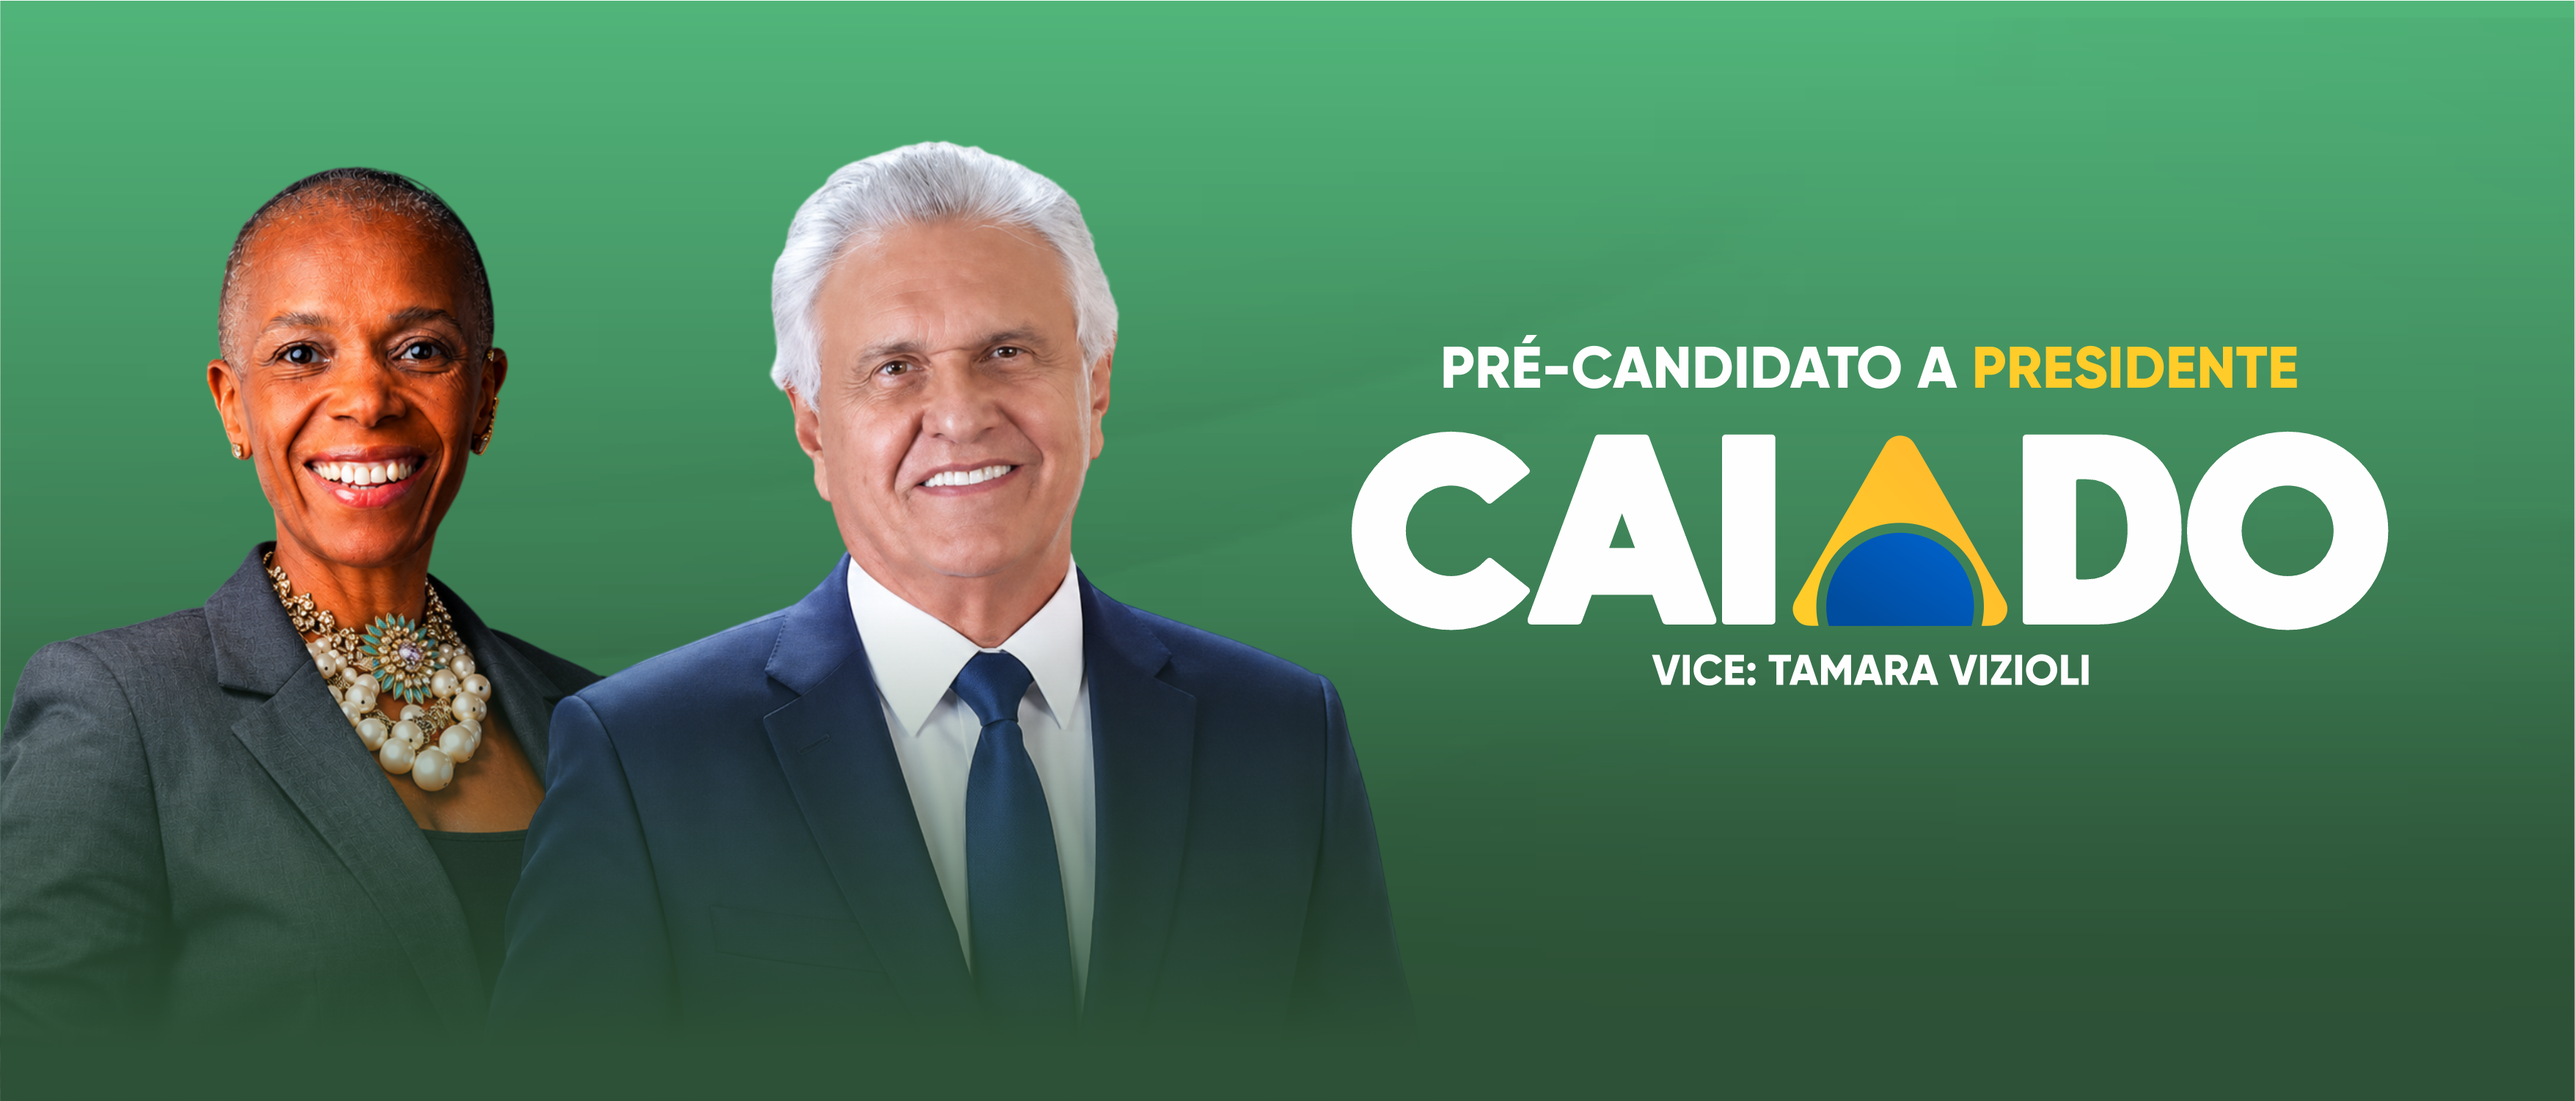
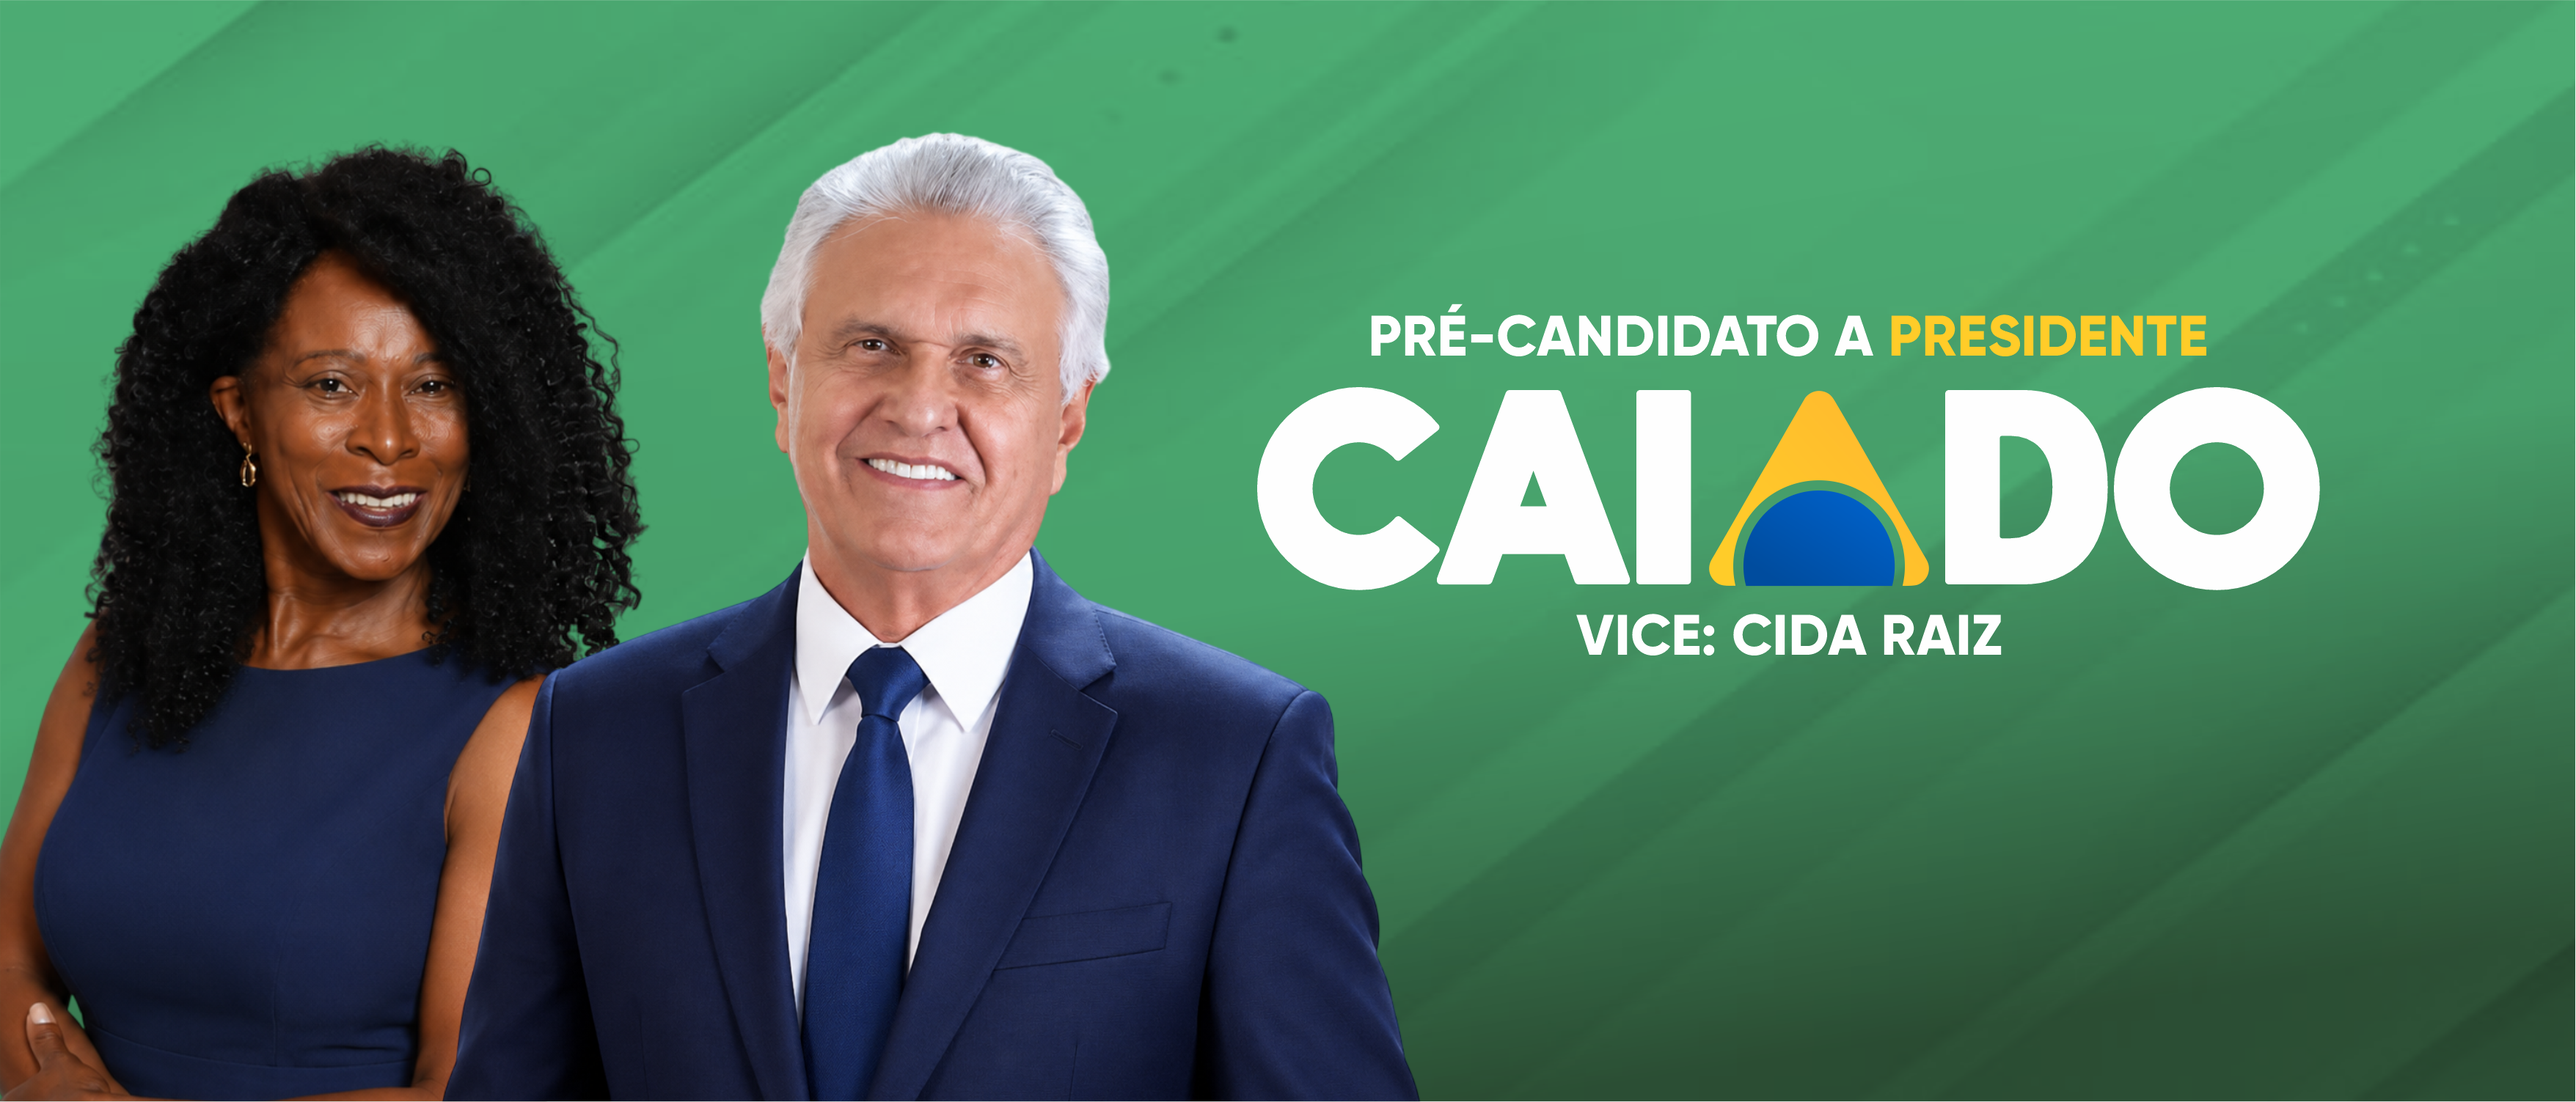
Add files via upload

diff --git a/index.html b/index.html
@@ -3,8 +3,18 @@
 <head>
   <meta charset="UTF-8">
   <meta name="viewport" content="width=device-width, initial-scale=1.0">
-  <meta name="description" content="Caiado 2026 - PSD Afro GO indica Tamara Vizioli para vice em uma chapa de gest&atilde;o, seguran&ccedil;a e transforma&ccedil;&atilde;o humana.">
-  <title>Caiado 2026 | PSD Afro GO indica Tamara Vizioli</title>
+  <meta name="description" content="Caiado 2026 - PSD Afro GO indica Cida Raiz para vice em uma chapa de gest&atilde;o, paz social e transforma&ccedil;&atilde;o humana.">
+  <title>Caiado 2026 | PSD Afro GO indica Cida Raiz</title>
+  <meta property="og:type" content="website">
+  <meta property="og:title" content="Caiado 2026 | PSD Afro GO indica Cida Raiz">
+  <meta property="og:description" content="PSD Afro GO indica Cida Raiz para vice de Ronaldo Caiado.">
+  <meta property="og:image" content="https://caiado2026.vercel.app/og-image.png">
+  <meta property="og:image:width" content="1200">
+  <meta property="og:image:height" content="630">
+  <meta name="twitter:card" content="summary_large_image">
+  <meta name="twitter:title" content="Caiado 2026 | PSD Afro GO indica Cida Raiz">
+  <meta name="twitter:description" content="PSD Afro GO indica Cida Raiz para vice de Ronaldo Caiado.">
+  <meta name="twitter:image" content="https://caiado2026.vercel.app/og-image.png">
   <link rel="preconnect" href="https://fonts.googleapis.com">
   <link rel="preconnect" href="https://fonts.gstatic.com" crossorigin>
   <link href="https://fonts.googleapis.com/css2?family=Inter:wght@400;500;600;700;800;900&family=Playfair+Display:wght@700;800&display=swap" rel="stylesheet">
@@ -23,7 +33,7 @@
     </button>
     <div class="nav-links">
       <a href="#movimento">Movimento</a>
-      <a href="#tamara">Tamara</a>
+      <a href="#cida">Cida Raiz</a>
       <a href="#agenda">Agenda</a>
       <a href="#planos">Planos</a>
       <a href="#terras-raras">Terras raras</a>
@@ -52,13 +62,13 @@
       <div class="section-kicker">Movimento</div>
       <div class="section-grid">
         <div>
-          <h2>PSD Afro GO indica Tamara Vizioli para vice de Ronaldo Caiado.</h2>
+          <h2>PSD Afro GO indica Cida Raiz para vice de Ronaldo Caiado.</h2>
         </div>
         <div class="rich-copy">
           <div class="manifest-video">
             <video src="01.mp4" controls playsinline preload="metadata"></video>
           </div>
-          <p>O PSD Afro GO defende uma chapa com presen&ccedil;a, escuta e capacidade de execu&ccedil;&atilde;o. A indica&ccedil;&atilde;o de Tamara Vizioli amplia o di&aacute;logo com fam&iacute;lias, mulheres, empreendedores criativos e comunidades que querem participar da constru&ccedil;&atilde;o do Brasil de 2026.</p>
+          <p>O PSD Afro GO defende uma chapa com presen&ccedil;a, escuta e capacidade de execu&ccedil;&atilde;o. A indica&ccedil;&atilde;o de Cida Raiz amplia o di&aacute;logo com mulheres, lideran&ccedil;as negras, movimentos sociais, comunidades de f&eacute;, empreendedores e cidad&atilde;os que querem participar da constru&ccedil;&atilde;o do Brasil de 2026.</p>
           <p>A proposta &eacute; somar lideran&ccedil;a pol&iacute;tica, experi&ecirc;ncia de gest&atilde;o e sensibilidade social em torno de um projeto nacional mais justo, seguro e produtivo.</p>
         </div>
       </div>
@@ -81,29 +91,39 @@
       </div>
     </section>
 
-    <section class="ticket section" id="tamara">
+    <section class="ticket section" id="cida">
       <div class="ticket-card">
         <div class="ticket-media">
-          <figure class="tamara-portrait">
-            <img src="tamara.png" alt="Tamara Vizioli">
+          <figure class="cida-portrait">
+            <img src="cida.png" alt="Maria Aparecida Pinto - Cida Raiz">
           </figure>
-          <p>Neuroci&ecirc;ncia, design e transforma&ccedil;&atilde;o humana.</p>
+          <p>Psicologia, ancestralidade, paz e lideran&ccedil;a social.</p>
         </div>
         <div class="ticket-copy">
           <div class="section-kicker">Indicada para vice</div>
-          <h2>Tamara Vizioli</h2>
-          <p>Tamara &eacute; neurocientista comportamental, CEO da Sozo Architecture, interior designer, mestre e artista em design espacial e hol&iacute;stico, com p&oacute;s em neuroarquitetura, neuroci&ecirc;ncia e performance humana.</p>
-          <p>Sua trajet&oacute;ria re&uacute;ne cria&ccedil;&atilde;o, supera&ccedil;&atilde;o e empreendedorismo. Do interesse pela arte desde a inf&acirc;ncia &agrave; experi&ecirc;ncia internacional em Dubai, Tamara construiu uma vis&atilde;o de espa&ccedil;os, pessoas e projetos como instrumentos de cura, organiza&ccedil;&atilde;o e transforma&ccedil;&atilde;o.</p>
+          <h2>Maria Aparecida Pinto</h2>
+          <p><strong>Cida Raiz</strong> &eacute; psic&oacute;loga e alquimista, com p&oacute;s-gradua&ccedil;&atilde;o em Administra&ccedil;&atilde;o e Recursos Humanos, al&eacute;m de forma&ccedil;&atilde;o em Hist&oacute;ria da &Aacute;frica e do Negro no Brasil.</p>
+          <p>Sua atua&ccedil;&atilde;o conecta sa&uacute;de emocional, lideran&ccedil;a feminina, equidade racial, liberdade religiosa, responsabilidade social e diplomacia cidad&atilde;. Cida construiu uma trajet&oacute;ria reconhecida por institui&ccedil;&otilde;es nacionais e internacionais, com presen&ccedil;a em conselhos, comit&ecirc;s e organiza&ccedil;&otilde;es voltadas &agrave; paz, &agrave; inclus&atilde;o e ao protagonismo social.</p>
           <div class="credentials">
-            <span>CEO Sozo Architecture</span>
-            <span>Neuroarquitetura</span>
-            <span>Performance humana</span>
-            <span>Design espacial</span>
+            <span>Psic&oacute;loga</span>
+            <span>Alquimista</span>
+            <span>Embaixadora para a Paz</span>
+            <span>Liberdade religiosa</span>
           </div>
-          <a class="download-informative" href="CAMAREIRAS.pdf" download>
-            Baixar informativo
-            <span>CAMAREIRAS.pdf</span>
-          </a>
+          <div class="career-list">
+            <h3>Cida Raiz em destaque</h3>
+            <ul>
+              <li>Comendadora da Oilpalpo/Nalimpo - Ordem Internacional de L&iacute;ngua Portuguesa e Na&ccedil;&otilde;es de L&iacute;ngua Portuguesa.</li>
+              <li>Embaixadora para a Paz pela UPF - Universal Peace Federation.</li>
+              <li>Coordenadora do N&uacute;cleo G&ecirc;nero e Etnia da Virada Feminina.</li>
+              <li>Conselheira do Consocial - Conselho Superior de Responsabilidade Social da Fiesp.</li>
+              <li>Conselheira da UAB - Uni&atilde;o Afro Brasil.</li>
+              <li>Coordenadora do Comit&ecirc; de Etnia da OBME - Organiza&ccedil;&atilde;o Brasileira de Mulheres Empres&aacute;rias.</li>
+              <li>Embaixadora da C&acirc;mara Internacional de Conferencistas.</li>
+              <li>Embaixadora da Liberdade Religiosa pela SP Frente Cidad&atilde;.</li>
+              <li>Comendadora da Ordem do M&eacute;rito Elo Social no grau de Ne&oacute;fitus/Laureum.</li>
+            </ul>
+          </div>
         </div>
       </div>
     </section>

diff --git a/styles.css b/styles.css
@@ -166,7 +166,7 @@ button, a { -webkit-tap-highlight-color: transparent; }
     linear-gradient(135deg, var(--green), #061b13);
   overflow: hidden;
 }
-.tamara-portrait {
+.cida-portrait {
   position: relative;
   height: clamp(360px, 34vw, 520px);
   min-height: 0;
@@ -177,7 +177,7 @@ button, a { -webkit-tap-highlight-color: transparent; }
   overflow: hidden;
   background: linear-gradient(180deg, rgba(255,255,255,.92), rgba(255,255,255,.68));
 }
-.tamara-portrait::after {
+.cida-portrait::after {
   content: "";
   position: absolute;
   inset: auto 0 0;
@@ -185,7 +185,7 @@ button, a { -webkit-tap-highlight-color: transparent; }
   background: linear-gradient(0deg, rgba(3,57,38,.74), transparent);
   pointer-events: none;
 }
-.tamara-portrait img {
+.cida-portrait img {
   width: 100%;
   height: 100%;
   max-width: 100%;
@@ -198,26 +198,25 @@ button, a { -webkit-tap-highlight-color: transparent; }
 .ticket-copy p { color: rgba(255,255,255,.78); font-size: 18px; line-height: 1.72; }
 .credentials { display: flex; flex-wrap: wrap; gap: 10px; margin-top: 30px; }
 .credentials span { border: 1px solid rgba(255,255,255,.22); border-radius: 999px; padding: 10px 14px; color: rgba(255,255,255,.86); font-size: 13px; font-weight: 800; }
-.download-informative {
-  display: inline-flex;
-  align-items: center;
-  justify-content: center;
-  gap: 12px;
-  min-height: 52px;
-  margin-top: 26px;
-  padding: 0 20px;
-  border-radius: 999px;
-  background: var(--gold);
-  color: #173314;
-  font-weight: 900;
+.career-list {
+  margin-top: 30px;
+  padding-top: 26px;
+  border-top: 1px solid rgba(255,255,255,.16);
 }
-.download-informative span {
-  color: rgba(23,51,20,.68);
-  font-size: 12px;
-  letter-spacing: .08em;
-  text-transform: uppercase;
+.career-list h3 {
+  margin: 0 0 16px;
+  color: var(--gold);
+  font-size: 18px;
 }
-
+.career-list ul {
+  display: grid;
+  gap: 10px;
+  margin: 0;
+  padding-left: 20px;
+  color: rgba(255,255,255,.78);
+  line-height: 1.55;
+}
+.career-list li::marker { color: var(--gold); }
 .agenda { background: #ffffff; }
 .compact { grid-template-columns: 1.15fr .85fr; }
 .agenda-list { margin-top: 46px; border-top: 1px solid var(--line); }
@@ -348,8 +347,7 @@ button, a { -webkit-tap-highlight-color: transparent; }
   .signal-grid article, .ticket-media, .ticket-copy { padding: 26px; }
   .ticket-card { min-height: 0; }
   .ticket-media { min-height: 0; }
-  .tamara-portrait { height: 360px; }
-  .download-informative { width: 100%; flex-wrap: wrap; }
+  .cida-portrait { height: 360px; }
   .photo-grid { grid-template-columns: 1fr; grid-auto-rows: 240px; }
   .photo-large, .photo-wide { grid-column: span 1; grid-row: span 1; }
   .news-grid img { height: 210px; }
